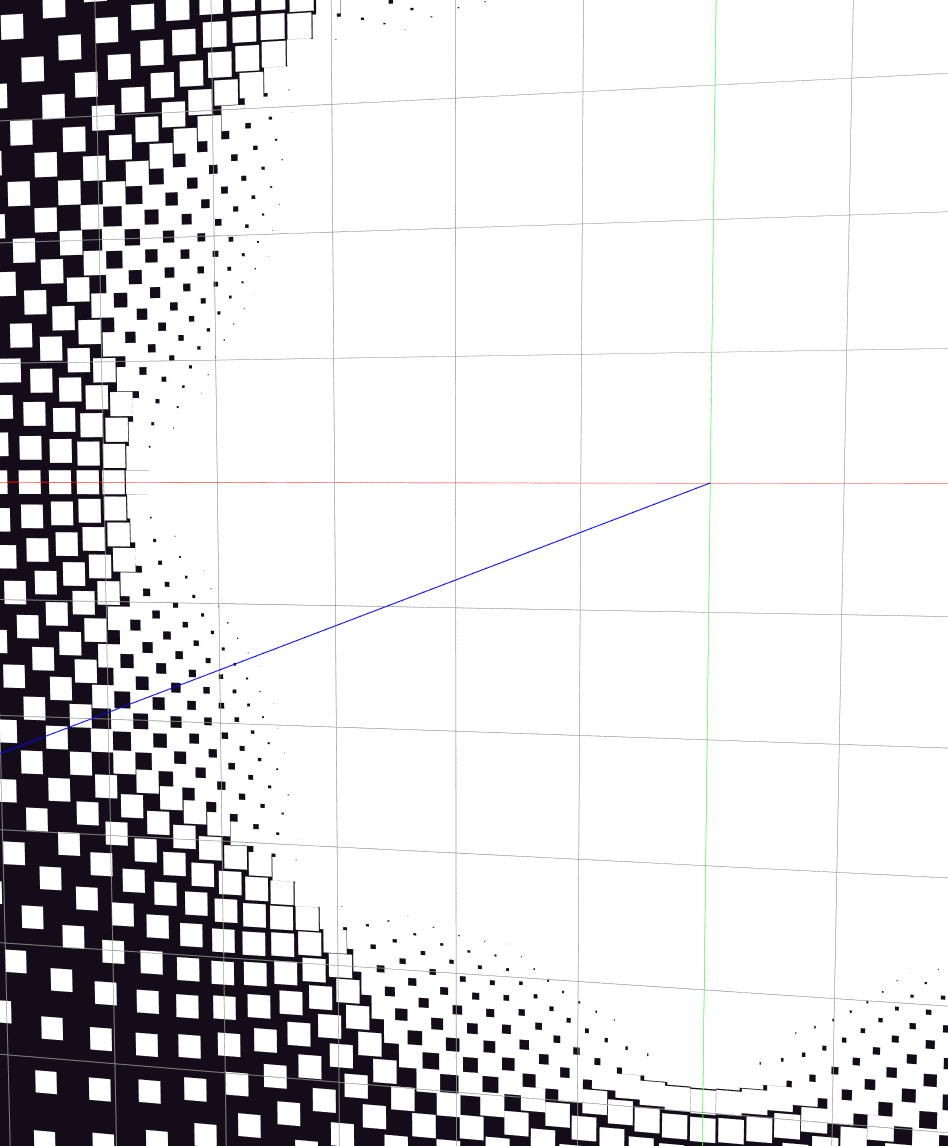
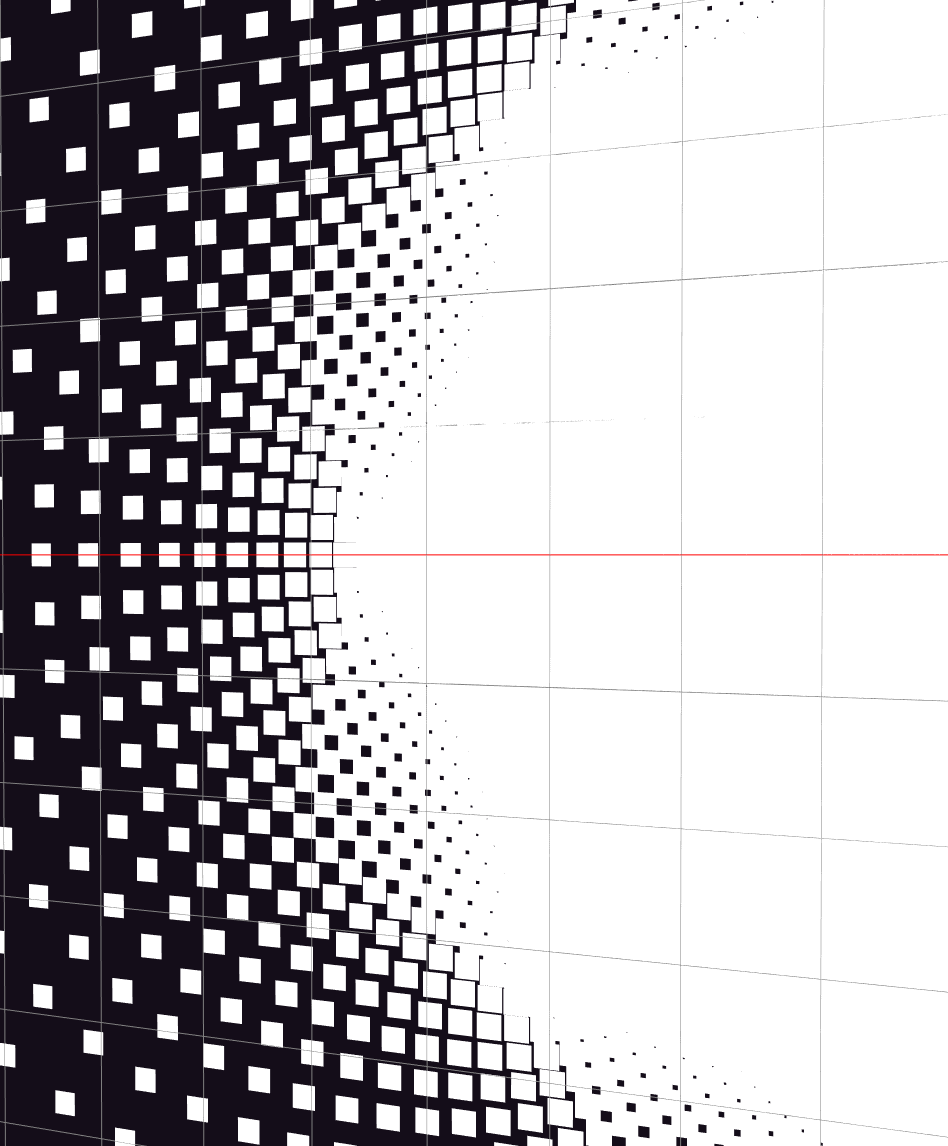
made the main loop more controlled at startup and termination. instead of letting RAII handle it all with no control

diff --git a/src/World/experiments/calculus.cpp b/src/World/experiments/calculus.cpp
@@ -45,7 +45,7 @@ static Entity& CreatePoint(M::Vector4 col)
     return point;
 }
 
-static std::vector<U::CheckedPtr<Entity>> points = {};
+static std::vector<unsigned int> points = {};
 
 static Entity& Plot(const M::Vector3 vec3, const M::Vector4 col = {1, 1, 1, 1})
 {
@@ -93,7 +93,7 @@ void calculus::Update(double dt)
     {
         for (auto& point : points)
         {
-            auto& transform = World::Get().Query.Pool<Transform3DComponent>().GetComponentById(point->Id);
+            auto& transform = World::Get().Query.Pool<Transform3DComponent>().GetComponentById(point);
             transform.Position *= multiplier;
         }
     }
@@ -123,7 +123,7 @@ void calculus::TwoDimensionalProjection(int increase)
         float proj = v2.StereoProject();
         // auto& d2point = Plot({v2.x, v2.y, 0});
         auto& point = Plot({proj, 0, 0});
-        points.emplace_back(&point);
+        points.emplace_back(point.Id);
         // points.emplace_back(&d2point);
     }
 }
@@ -139,7 +139,7 @@ void calculus::ThreeDimensionalProjection(int increase)
             M::Vector3 v3 = M::Vector3::FromSpherical(M::Spherical(M::Rad(theta), M::Rad(phi)));
             M::Vector2 proj = v3.StereoProject();
             auto& point = Plot({proj.x, proj.y, 0});
-            points.emplace_back(&point);
+            points.emplace_back(point.Id);
         }
     }
 }
@@ -159,7 +159,7 @@ void calculus::FourDimensionalProjection(int increase)
                     M::Vector4::FromHyperSpherical(M::HyperSpherical(M::Rad(theta), M::Rad(phi), M::Rad(h)));
                 M::Vector3 proj = v4.StereoProject();
                 auto& point = Plot(proj);
-                points.emplace_back(&point);
+                points.emplace_back(point.Id);
             }
         }
     }

diff --git a/src/Core/InnerCore/Window.cpp b/src/Core/InnerCore/Window.cpp
@@ -10,11 +10,13 @@ void Window::Generate(const int width, const int height, const std::string& titl
     SetHints();
 
     GLFWwindow* glfwWindow = glfwCreateWindow(width, height, title.c_str(), nullptr, nullptr);
+    GlfwWindow = glfwWindow;
     if (!glfwWindow)
     {
         U::Log::Fatal("Failed To Create Window");
     }
-    glfwMakeContextCurrent(glfwWindow);
+
+    MakeCurrentContext();
 
     if (!gladLoadGLLoader(reinterpret_cast<GLADloadproc>(glfwGetProcAddress)))
     {
@@ -24,21 +26,21 @@ void Window::Generate(const int width, const int height, const std::string& titl
     U::Log::Info(glGetString(GL_VERSION));
 
     glViewport(0, 0, width, height);
-    GlfwWindow = glfwWindow;
 }
 void Window::Terminate()
 {
     glfwDestroyWindow(GlfwWindow);
 }
 
-Window::~Window()
-{
-    Terminate();
-}
+Window::~Window() {}
 
 float Window::GetAspectRatio() const
 {
     return static_cast<float>(GetWidth()) / static_cast<float>(GetHeight());
+}
+void Window::MakeCurrentContext()
+{
+    glfwMakeContextCurrent(GlfwWindow);
 }
 
 bool Window::ShouldClose()

diff --git a/src/Core/InnerCore/Window.hpp b/src/Core/InnerCore/Window.hpp
@@ -23,11 +23,10 @@ struct Window
     void Generate(int width, int height, const std::string& title);
     void Terminate();
 
-    /** @brief Destroys the underlying GLFW window. */
-    ~Window();
-
     /** @brief Returns the window's width-to-height ratio. */
     [[nodiscard]] float GetAspectRatio() const;
+
+    void MakeCurrentContext();
 
     /**
      * @brief Checks whether the window has been requested to close.

diff --git a/src/Core/InnerCore/Engine.hpp b/src/Core/InnerCore/Engine.hpp
@@ -17,6 +17,7 @@ concept ModuleType = std::derived_from<T, Module>;
  */
 struct Engine
 {
+    GraphicsContext GraphicsContext{};
     Window Window;
     std::optional<World> World;
 
@@ -61,8 +62,6 @@ struct Engine
     }
 
   private:
-    GraphicsContext GraphicsContext{};
-
     /** @brief Global engine instance. */
     inline static U::CheckedPtr<Engine> Instance = nullptr;
 
